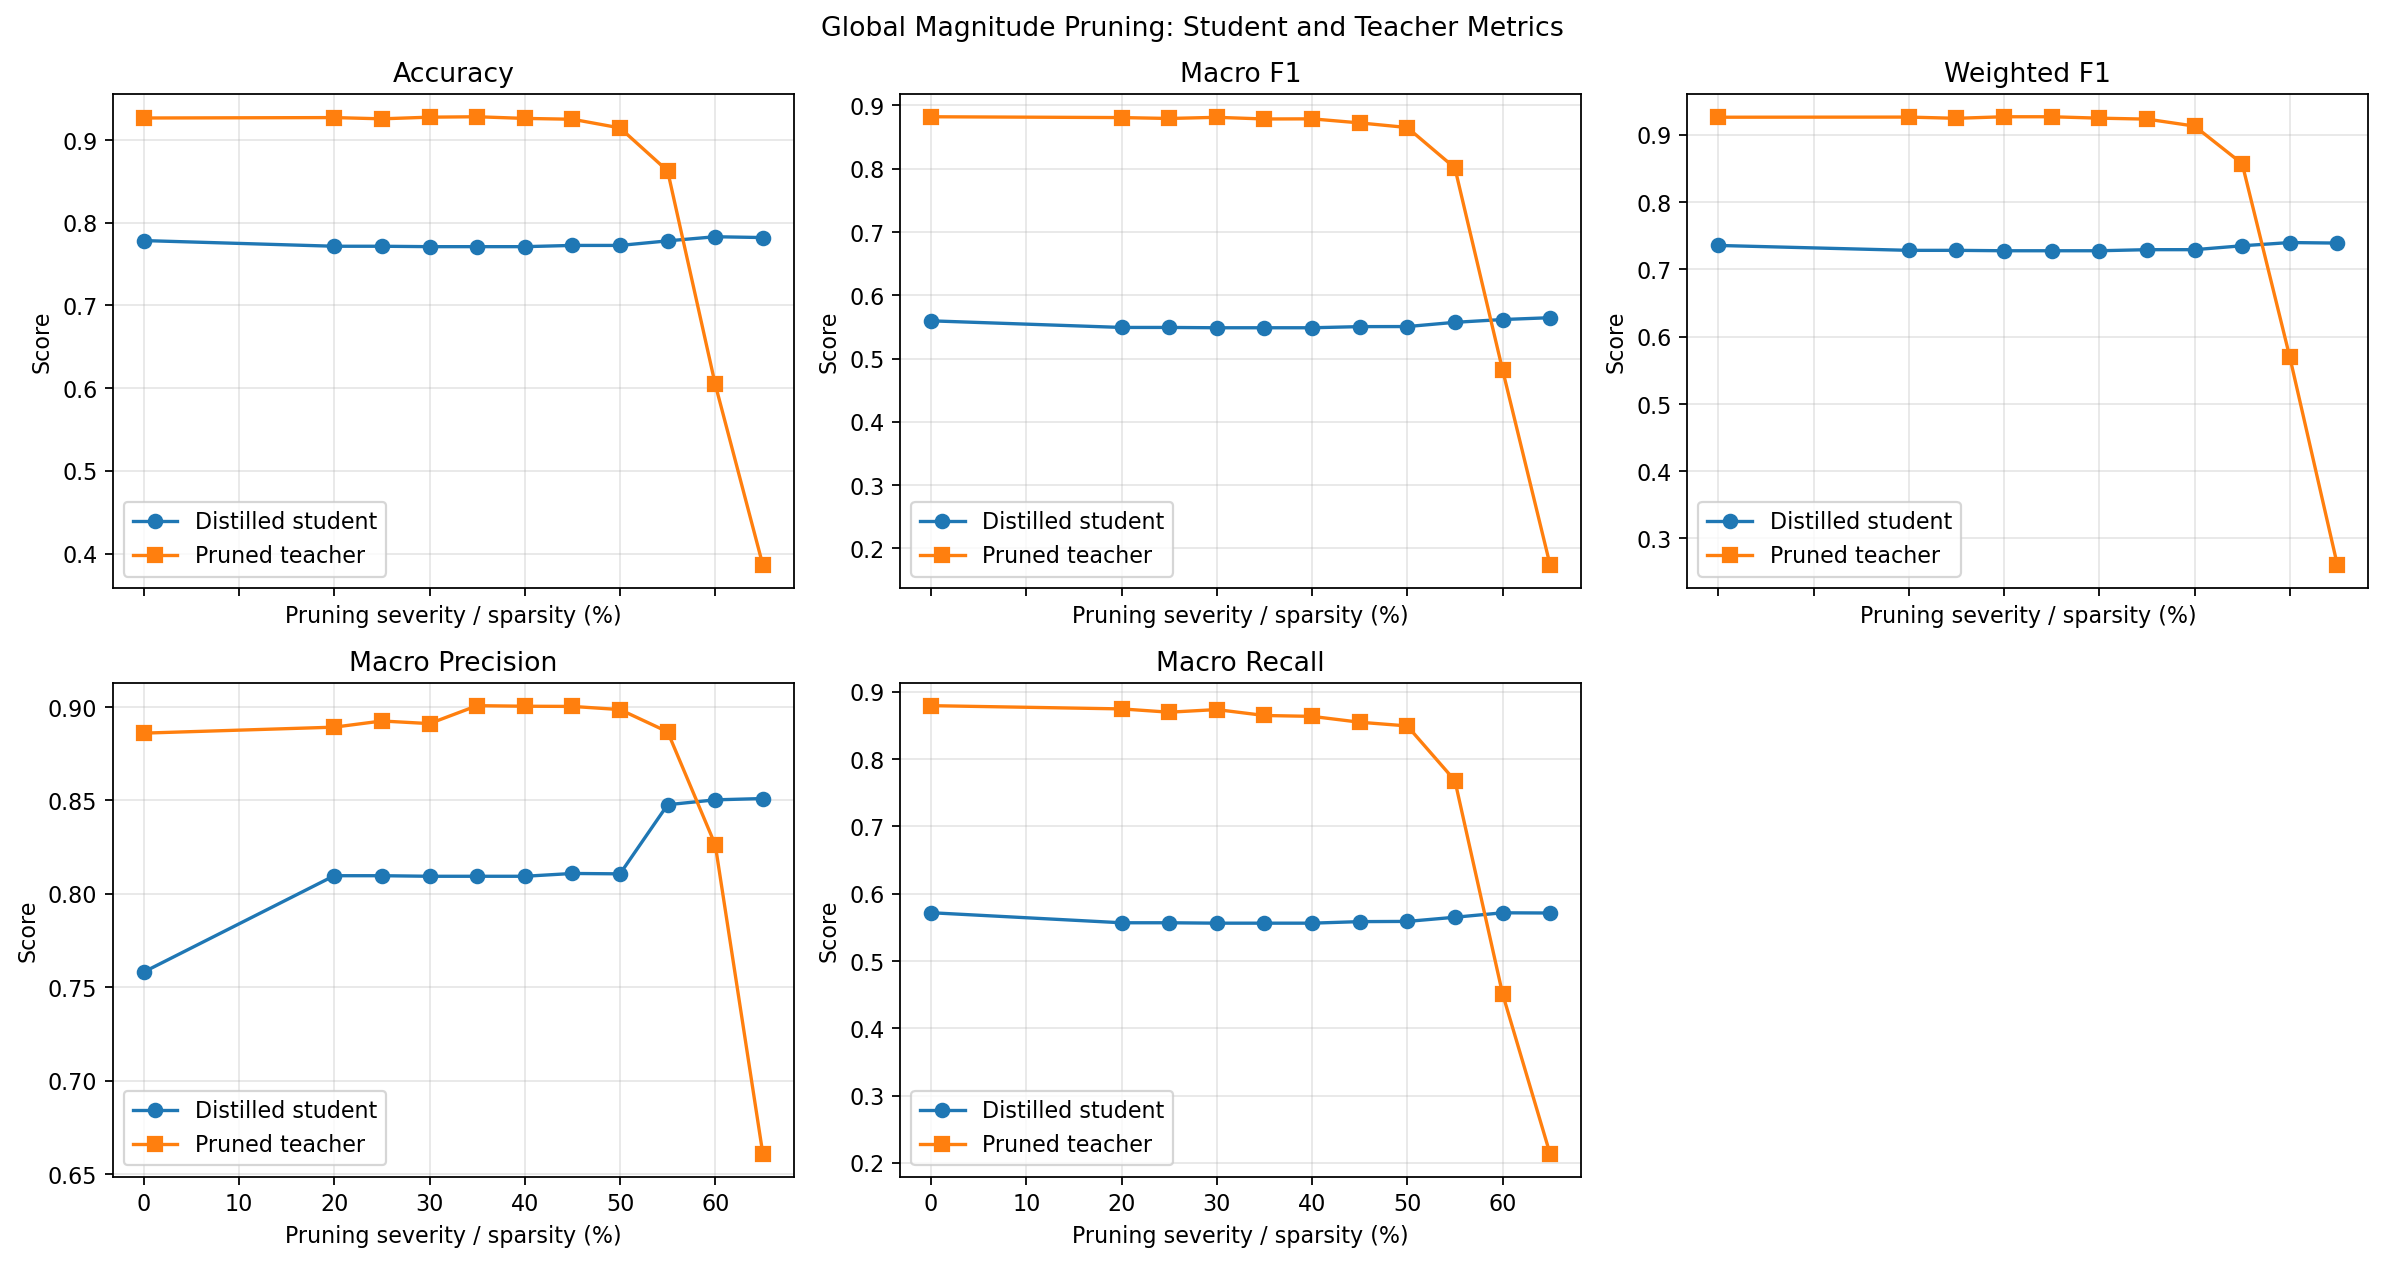
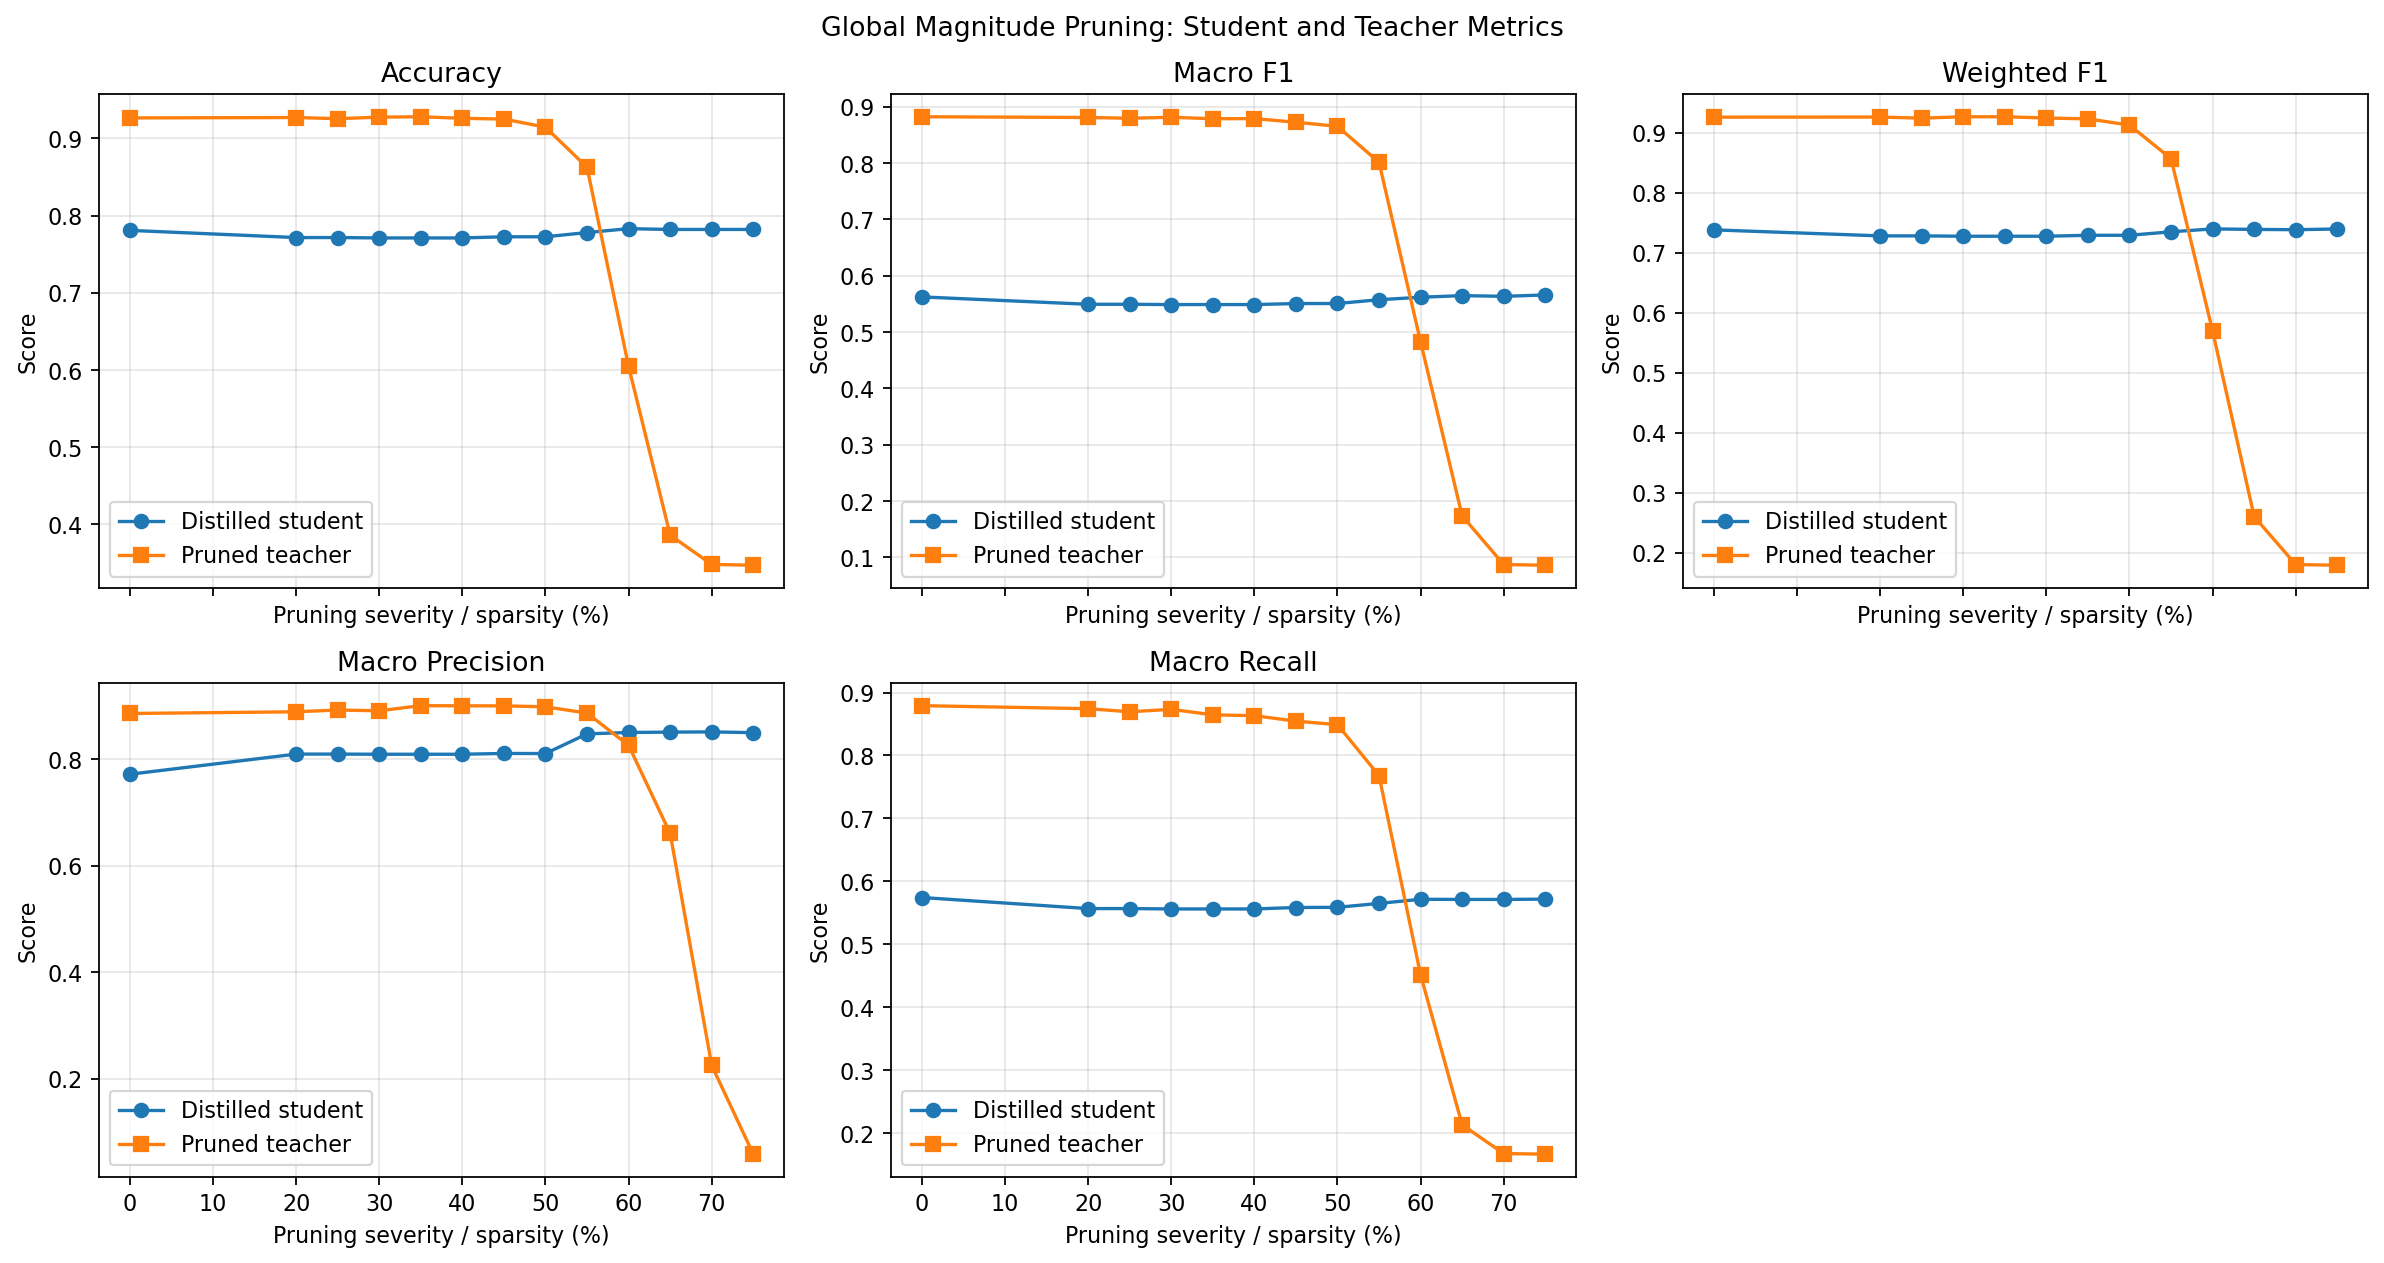
with 0.7 and 0.75

diff --git a/plots.py b/plots.py
@@ -7,7 +7,7 @@ import matplotlib.pyplot as plt
 
 
 METRICS = (
-    ("Accuracy", 2, 100.0),
+    ("Accuracy", 2, 100.0), #column what to divide by
     ("Macro F1", 3, 1.0),
     ("Weighted F1", 4, 1.0),
     ("Macro Precision", 5, 1.0),
@@ -43,7 +43,7 @@ def load_results(csv_path):
     return results
 
 
-def average_at_severities(results, labels):
+def average_at_severities(results, labels): #because some run twice so some have 2 
     grouped = defaultdict(list)
     for label in labels:
         for severity, rows in results.get(label, {}).items():
@@ -90,6 +90,13 @@ def plot_method(results, method, display_name, output_dir):
         ax.set_ylabel("Score")
         ax.grid(True, alpha=0.3)
         ax.legend()
+
+    max_severity = max(max(student_values), max(teacher_values))
+    x_ticks = list(range(0, int(max_severity) + 1, 10))
+    if max_severity not in x_ticks:
+        x_ticks.append(max_severity)
+    axes[0].set_xticks(x_ticks)
+    axes[0].set_xlim(0, max_severity + max(1, max_severity * 0.02))
 
     axes[-1].set_visible(False)
     fig.suptitle(f"{display_name} Pruning: Student and Teacher Metrics")
